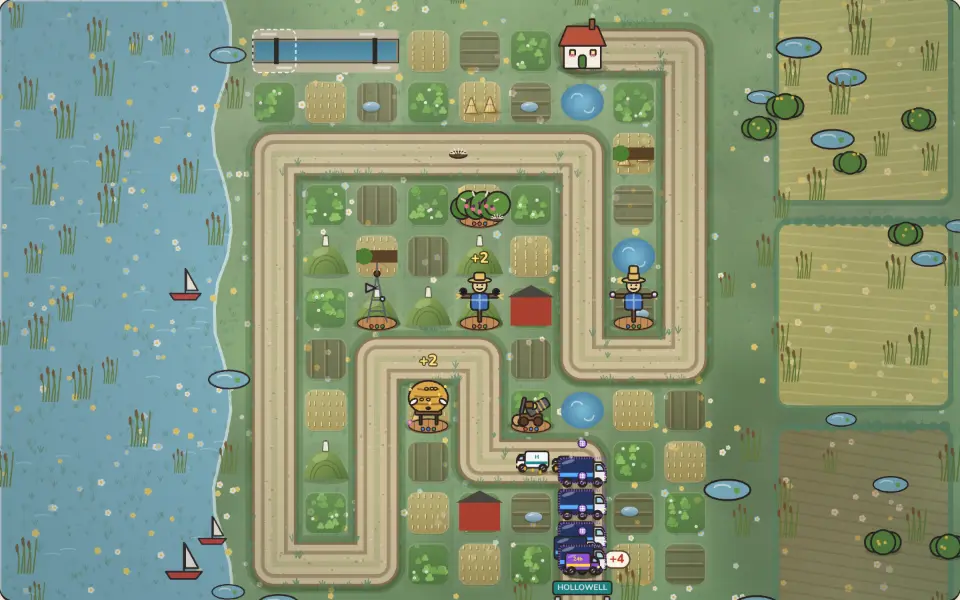
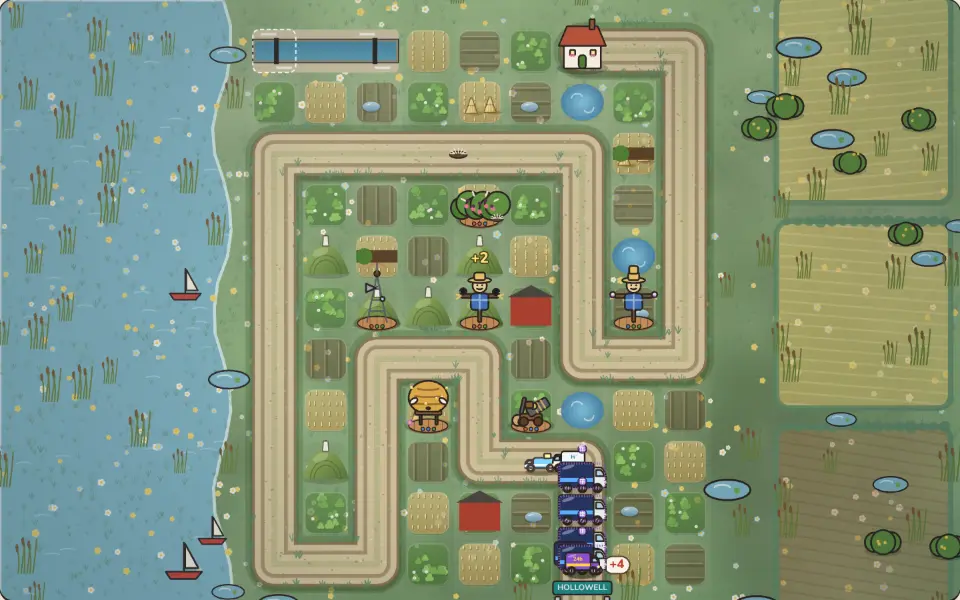
Hedgerow (plan item 157, slice 1): Hollowell's depot by the gate, with its departures board and its rep
In 2D a glossy plastic depot (depot.ts: roller door, the brand stripe, a rep on the balcony) stands in the margin
outside each gate wherever the margin holds it (2 x 2 cells; never on the field). Its departures board carries the
next round's count, and the canvas's 'N coming' pill steps aside where a depot stands. The rep is smug, then
rattled after a clean round or gleeful after one that leaked (data-rep-mood). New e2e-site/hedgerow-depot.spec.ts;
hedgerow-gatequeue accepts the board for the count. The Hedgerow site specs pass at P and D bar hedgerow-swarm
(times out on build before this) and hedgerow-3dframe:111 at P (a 1-in-3 flake, 3D only). Hedgerow key art
re-shot. Shots of levels 21 and 34 at P and D.

Claude-Session: https://claude.ai/code/session_01SimvMN1RHBGCWN7Eo7MzhN

Changed region(s): [[0.5312, 0.72, 0.6562, 0.96], [0.4375, 0.57, 0.4688, 0.69]]

diff --git a/games/hedgerow/src/main.ts b/games/hedgerow/src/main.ts
@@ -197,6 +197,7 @@ import { setupAlmanac } from "./almanac";
 import { towerRole, type TowerRole } from "./roles";
 import { leakDebrief } from "./debrief";
 import { cheer, panic } from "./farmfolk";
+import { depotSvg, entrySide, repMood, repSvg, type RepMood } from "./depot";
 import { KITS } from "./hero";
 import { OUTFITS, isUnlocked as outfitUnlocked, outfitFor, shareOutfit, wear, wornOutfit } from "./wardrobe";
 import { actScene, renderMap } from "./map";
@@ -4057,6 +4058,97 @@ function runSpeed(g: Game): number {
 // Plan item 152: the level's twists you can see on the field. A flood that's up marks the stage
 // `data-twist-active~="flood"` with the count of plots under it (the renderers draw the water); a fog level's
 // sea fret is a drifting layer over the field (`.field-fog`) that thickens as the round runs.
+// Plan item 157: Hollowell's depot at each gate (2D, where the field has a margin beside the gate wide enough for
+// a 2 x 2-cell depot clear of every plot). Its departures board shows the next round's count; the rep's mood follows
+// the last round (smug, then gleeful after a leak or rattled after a clean one).
+let depotLeaksAtStart = 0;
+let depotMood: RepMood = "smug";
+let depotJudged = 0;
+let depotKey = "";
+let depotLevel = -1;
+function syncDepots(g: Game): void {
+  const layer0 = document.getElementById("depots");
+  const show = !!renderer && !is3D(renderer) && g.phase !== "won" && g.phase !== "lost";
+  if (!show) {
+    layer0?.remove();
+    depotKey = "";
+    if (renderer && !is3D(renderer)) (renderer as Renderer).depotLanes.clear();
+    return;
+  }
+  // The mood: each time a round is over (the round counter moves on and the field is between rounds), compare the
+  // leaks with the last time he judged. A new level starts him smug.
+  const L0 = g.level;
+  if (depotLevel !== L0.id) {
+    depotLevel = L0.id;
+    depotMood = "smug";
+    depotJudged = g.wave;
+    depotLeaksAtStart = g.leaks ?? 0;
+  } else if (betweenRounds(g) && g.wave !== depotJudged) {
+    depotMood = repMood(depotLeaksAtStart, g.leaks ?? 0);
+    depotJudged = g.wave;
+    depotLeaksAtStart = g.leaks ?? 0;
+  }
+  const r = renderer as Renderer;
+  const L = g.level;
+  const c00 = r.cellCenter(0, 0);
+  const c11 = r.cellCenter(1, 1);
+  if (!c00 || !c11) return;
+  const cell = c11.x - c00.x;
+  const size = Math.round(cell * 2);
+  const canvas = ui.stage.querySelector("#canvas")!.getBoundingClientRect();
+  const stage = ui.stage.getBoundingClientRect();
+  const fieldL = c00.x - cell / 2, fieldT = c00.y - cell / 2;
+  const fieldR = fieldL + L.cols * cell, fieldB = fieldT + L.rows * cell;
+  const counts = [0, 0];
+  if (betweenRounds(g) && L.waves[g.wave]) for (const q of waveSpawns(g, L.waves[g.wave]!, g.wave + 1)) counts[(q as { lane?: number }).lane ? 1 : 0]!++;
+  const lanes = [L.path, L.path2].map((path, i) => ({ path, i })).filter((l) => !!l.path);
+  const spots: Array<{ x: number; y: number; count: number; lane: number }> = [];
+  for (const { path, i } of lanes) {
+    const start = path![0] as unknown as [number, number];
+    const gate = r.cellCenter(start[0], start[1]);
+    if (!gate) continue;
+    for (const side of entrySide(start, L.cols, L.rows)) {
+      const room = side === "left" ? fieldL - canvas.left : side === "right" ? canvas.right - fieldR : side === "top" ? fieldT - canvas.top : canvas.bottom - fieldB;
+      // Only where the margin outside the field holds the whole depot: it never stands on a plot.
+      if (room < size + 12) continue;
+      const x = side === "left" ? fieldL - 8 - size : side === "right" ? fieldR + 8 : gate.x - size / 2;
+      const y = side === "top" ? fieldT - 8 - size : side === "bottom" ? fieldB + 8 : gate.y - size / 2;
+      const clampY = Math.max(canvas.top + 4, Math.min(canvas.bottom - size - 4, y));
+      const clampX = Math.max(canvas.left + 4, Math.min(canvas.right - size - 4, x));
+      // A clamp that pulls it onto the field (a top margin shorter than the depot) rules the spot out.
+      const meetsField = clampX < fieldR && clampX + size > fieldL && clampY < fieldB && clampY + size > fieldT;
+      if (meetsField) continue;
+      spots.push({ x: clampX - stage.left, y: clampY - stage.top, count: counts[i]!, lane: i });
+      break;
+    }
+  }
+  r.depotLanes = new Set(spots.map((sp) => sp.lane));
+  const key = `${L.id}|${size}|${depotMood}|${spots.map((s) => `${Math.round(s.x)},${Math.round(s.y)},${s.count}`).join(";")}`;
+  if (key === depotKey) return;
+  depotKey = key;
+  let layer = layer0;
+  if (!layer) {
+    layer = document.createElement("div");
+    layer.id = "depots";
+    layer.className = "depots";
+    layer.setAttribute("aria-hidden", "true");
+    ui.stage.querySelector("#fx-layer")?.before(layer);
+  }
+  layer.replaceChildren(
+    ...spots.map((sp) => {
+      const el = document.createElement("div");
+      el.className = "depot";
+      el.dataset.depot = String(sp.lane);
+      el.dataset.repMood = depotMood;
+      el.style.setProperty("--x", `${Math.round(sp.x)}px`);
+      el.style.setProperty("--y", `${Math.round(sp.y)}px`);
+      el.style.setProperty("--size", `${size}px`);
+      el.innerHTML = `${depotSvg()}<span class="depot-board" data-depot-count="${sp.count}">${sp.count ? `<b>${sp.count}</b> next` : "&mdash;"}</span><span class="depot-rep">${repSvg(depotMood)}</span>`;
+      return el;
+    }),
+  );
+}
+
 let twistKey = "";
 let twistWarned = "";
 function syncTwists(g: Game): void {
@@ -4174,6 +4266,7 @@ function frame(now: number): void {
   renderer.draw(g, paused || introHold ? 0 : dt * Math.min(speed, 2));
   syncCathSay(g, now);
   syncTwists(g);
+  syncDepots(g);
   drawGhost(g);
   drawDuel(g);
   if (!finished && !player && (g.phase === "won" || g.phase === "lost")) {

diff --git a/games/hedgerow/src/depot.ts b/games/hedgerow/src/depot.ts
@@ -1,0 +1,63 @@
+// Plan item 157: Hollowell's depot at each gate. A glossy plastic shed with a roller door and the brand stripe, a
+// departures board with the next round's count, and the rep on the balcony: smug by default, gleeful when something
+// got through last round, rattled when the round went clean. Pure picture and placement; main.ts positions it.
+
+export type RepMood = "smug" | "gleeful" | "rattled";
+
+const INK = "#2b2320";
+/** The depot's picture in a 100 x 100 box, its door facing down (towards the lane). */
+export function depotSvg(): string {
+  const ribs = Array.from({ length: 6 }, (_, i) => `<path d="M30 ${62 + i * 5}h40" stroke="#9aa3ad" stroke-width="1.2"/>`).join("");
+  return (
+    `<svg viewBox="0 0 100 100" aria-hidden="true">` +
+    `<ellipse cx="50" cy="96" rx="46" ry="4" fill="rgba(0,0,0,0.22)"/>` +
+    // body: glossy grey-white plastic with a single highlight, no outline (STYLE.md: the enemies are glossy)
+    `<rect x="6" y="30" width="88" height="64" rx="6" fill="#e9edf1"/>` +
+    `<rect x="10" y="33" width="80" height="6" rx="3" fill="#ffffff" opacity="0.8"/>` +
+    // roof and brand stripe
+    `<path d="M2 32 50 10l48 22z" fill="#d7dde3"/>` +
+    `<rect x="6" y="42" width="88" height="10" fill="#ef7a2a"/>` +
+    `<text x="50" y="50" text-anchor="middle" font-size="7.2" font-weight="800" fill="#fff" font-family="sans-serif" letter-spacing="1">HOLLOWELL</text>` +
+    // roller door
+    `<rect x="28" y="58" width="44" height="36" rx="2" fill="#c9d0d7"/>${ribs}` +
+    // departures board on the left wall
+    `<rect x="9" y="56" width="17" height="22" rx="2" fill="#1d2228"/>` +
+    // balcony rail on the right
+    `<path d="M74 58h18" stroke="#9aa3ad" stroke-width="2"/>` +
+    `</svg>`
+  );
+}
+
+/** The rep on the balcony (a small figure in a suit with an orange tie), in a 24 x 30 box. */
+export function repSvg(mood: RepMood): string {
+  const mouth =
+    mood === "gleeful" ? `<path d="M9 12q3 4 6 0" fill="${INK}"/>` : mood === "rattled" ? `<path d="M9 13.5q3-3 6 0" fill="none" stroke="${INK}" stroke-width="1.2"/>` : `<path d="M9 12.5q3 1.6 6-0.8" fill="none" stroke="${INK}" stroke-width="1.2"/>`;
+  const brows = mood === "rattled" ? `<path d="M8 6.5l3 1M16 6.5l-3 1" stroke="${INK}" stroke-width="1"/>` : `<path d="M8 7l3-1M16 7l-3-1" stroke="${INK}" stroke-width="1"/>`;
+  const arm = mood === "gleeful" ? `<path d="M18 19l4-7" stroke="#3a4250" stroke-width="3" stroke-linecap="round"/>` : "";
+  return (
+    `<svg viewBox="0 0 24 30" aria-hidden="true">` +
+    `<path d="M4 30v-9q8-5 16 0v9z" fill="#3a4250"/>${arm}` +
+    `<path d="M11.2 20h1.6l1 6-1.8 2-1.8-2z" fill="#ef7a2a"/>` +
+    `<circle cx="12" cy="10" r="6" fill="#f0c8a4"/>` +
+    `<path d="M6 8q6-7 12 0" fill="#5a4636"/>${brows}` +
+    `<circle cx="9.6" cy="9.6" r="0.9" fill="${INK}"/><circle cx="14.4" cy="9.6" r="0.9" fill="${INK}"/>${mouth}` +
+    `</svg>`
+  );
+}
+
+export type Side = "left" | "right" | "top" | "bottom";
+/** Which field edge a lane enters from, by its first cell. */
+export function entrySide(start: readonly [number, number], cols: number, rows: number): Side[] {
+  const [c, r] = start;
+  const out: Side[] = [];
+  if (c <= 0) out.push("left");
+  if (c >= cols - 1) out.push("right");
+  if (r <= 0) out.push("top");
+  if (r >= rows - 1) out.push("bottom");
+  return out;
+}
+
+/** The rep's mood once a round is over: gleeful if anything got through it, rattled if it went clean. */
+export function repMood(leaksAtStart: number, leaksAtEnd: number): RepMood {
+  return leaksAtEnd > leaksAtStart ? "gleeful" : "rattled";
+}

diff --git a/e2e-site/hedgerow-depot.spec.ts b/e2e-site/hedgerow-depot.spec.ts
@@ -1,0 +1,50 @@
+import { expect, test } from '@playwright/test'
+
+// Plan item 157: Hollowell's depot by the gate (2D). It stands in the margin by its lane's start, 2 x 2 cells or
+// larger and on no plot; its departures board carries the next round's count (no 'N coming' pill there); the rep
+// on its balcony is smug, gleeful after a round that leaked and rattled after a clean one.
+type G = { wave: number; phase: string; leaks?: number; level: { cols: number; rows: number; path: number[][] } }
+type W = { hedgerow?: { game: () => G | null; cellCenter: (c: number, r: number) => { x: number; y: number } | null; gateQueue: () => { plates: unknown[] } | null } }
+
+test('the depot stands by the gate with the next round on its board, and the rep reacts to the round', async ({ page, hasTouch }) => {
+  test.skip(hasTouch, 'level 21 has no margin for a depot on a phone')
+  await page.goto('/hedgerow/?2d&sandbox=1&level=21')
+  await page.waitForFunction(() => !!(window as unknown as W).hedgerow?.game(), null, { timeout: 30_000 })
+  const depot = page.locator('[data-depot]').first()
+  await expect(depot).toBeAttached()
+  await expect(depot).toHaveAttribute('data-rep-mood', 'smug')
+  const m = await page.evaluate(() => {
+    const hg = (window as unknown as W).hedgerow!
+    const g = hg.game()!
+    const a = hg.cellCenter(0, 0)!, b = hg.cellCenter(1, 1)!
+    const cell = b.x - a.x
+    const d = document.querySelector('[data-depot]')!.getBoundingClientRect()
+    const gate = hg.cellCenter(g.level.path[0]![0]!, g.level.path[0]![1]!)!
+    const fL = a.x - cell / 2, fT = a.y - cell / 2, fR = fL + g.level.cols * cell, fB = fT + g.level.rows * cell
+    const gap = Math.max(0, Math.max(d.left - gate.x, gate.x - d.right) - cell / 2, Math.max(d.top - gate.y, gate.y - d.bottom) - cell / 2)
+    return {
+      cells: d.width / cell,
+      gap,
+      onField: d.left < fR && d.right > fL && d.top < fB && d.bottom > fT,
+      count: Number(document.querySelector('[data-depot] [data-depot-count]')!.getAttribute('data-depot-count')),
+      pills: hg.gateQueue()?.plates.length ?? 0,
+    }
+  })
+  expect(m.cells).toBeGreaterThanOrEqual(2)
+  expect(m.gap).toBeLessThanOrEqual(60)
+  expect(m.onField).toBe(false)
+  expect(m.count).toBeGreaterThan(0)
+  expect(m.pills).toBe(0)
+  // A round that ends clean rattles him; one with a leak delights him.
+  // The next round's number with or without a leak on the way (the field stays between rounds).
+  const round = async (leak: boolean) =>
+    page.evaluate((leak) => {
+      const g = (window as unknown as W).hedgerow!.game()!
+      if (leak) g.leaks = (g.leaks ?? 0) + 1
+      g.wave += 1
+    }, leak)
+  await round(false)
+  await expect(depot).toHaveAttribute('data-rep-mood', 'rattled')
+  await round(true)
+  await expect(depot).toHaveAttribute('data-rep-mood', 'gleeful')
+})

diff --git a/games/hedgerow/src/styles.css b/games/hedgerow/src/styles.css
@@ -4662,3 +4662,53 @@ img.act-scene {
 @media (prefers-reduced-motion: reduce) {
   .field-fog span { animation: none; left: 5%; }
 }
+
+/* Plan item 157: Hollowell's depot beside each gate (2D, desktop margin). The departures board is a lit sign over the
+   roller door; the rep leans on the balcony rail. */
+.depots {
+  position: absolute;
+  inset: 0;
+  pointer-events: none;
+}
+.depot {
+  position: absolute;
+  left: var(--x);
+  top: var(--y);
+  width: var(--size);
+  height: var(--size);
+}
+.depot > svg { display: block; width: 100%; height: 100%; }
+.depot-board {
+  position: absolute;
+  left: 26%;
+  top: 53%;
+  width: 48%;
+  padding: 2px 0;
+  border-radius: 3px;
+  background: var(--ink);
+  color: var(--wheat, var(--cream-a45));
+  font-family: var(--font-ui, sans-serif);
+  font-size: max(0.75rem, calc(var(--size) * 0.085));
+  font-weight: 700;
+  line-height: 1.1;
+  text-align: center;
+  text-transform: uppercase;
+  letter-spacing: 0.04em;
+  white-space: nowrap;
+}
+.depot-board b { font-size: 1.15em; }
+.depot-rep {
+  position: absolute;
+  left: 72%;
+  top: 31%;
+  width: 22%;
+  height: 28%;
+}
+.depot-rep svg { display: block; width: 100%; height: 100%; }
+.depot[data-rep-mood="gleeful"] .depot-rep { animation: rep-gloat 600ms ease-in-out 3 alternate; }
+.depot[data-rep-mood="rattled"] .depot-rep { animation: rep-shake 120ms linear 6 alternate; }
+@keyframes rep-gloat { to { translate: 0 -12%; } }
+@keyframes rep-shake { to { translate: 6% 0; } }
+@media (prefers-reduced-motion: reduce) {
+  .depot-rep { animation: none !important; }
+}

diff --git a/games/hedgerow/src/render.ts b/games/hedgerow/src/render.ts
@@ -887,7 +887,9 @@ export class Renderer {
         });
         const tail = enemyPoint(level, { dist: 0, ...(ln.lane ? { lane: ln.lane } : {}) });
         const upright = headingAt(path, 0).dx === 0;
-        items.push({ y: 99, draw: () => shown.plates.push(this.countPlate(ctx, ln.count, X(tail.x), Y(tail.y), s, upright)) });
+        // Plan item 157: where Hollowell's depot stands by this gate its departures board carries the count instead.
+        if (!this.depotLanes.has(ln.lane ?? 0))
+          items.push({ y: 99, draw: () => shown.plates.push(this.countPlate(ctx, ln.count, X(tail.x), Y(tail.y), s, upright)) });
       }
     } else this.queueAge = 0;
     for (const e of game.enemies) {
@@ -1467,6 +1469,8 @@ export class Renderer {
   private shardBursts = 0;
   /** Plan item 72: the queue drawn last frame (CSS px from the canvas corner), for the e2e tests; null when nothing waits at the gate. */
   shownQueue: { leads: Rect[]; plates: Rect[] } | null = null;
+  /** Plan item 157: the lanes (0, 1) whose gate has a depot on screen, which shows the count. */
+  depotLanes = new Set<number>();
   private queueAge = 0;
   private queueKey = "";
   private queueMemo: GateQueue | null = null;

diff --git a/e2e-site/hedgerow-gatequeue.spec.ts b/e2e-site/hedgerow-gatequeue.spec.ts
@@ -25,7 +25,9 @@ for (const level of [1, 12, 40]) {
     await expect.poll(async () => (await queue(page))?.leads.length ?? 0).toBeGreaterThan(0)
     const q = (await queue(page))!
     const canvas = (await page.locator('canvas').first().boundingBox())!
-    expect(q.plates.length).toBeGreaterThan(0)
+    // Plan item 157: where Hollowell's depot stands by the gate its departures board carries the count instead.
+    const boards = await page.locator('[data-depot] [data-depot-count]').count()
+    expect(q.plates.length + boards).toBeGreaterThan(0)
     for (const b of [...q.leads, ...q.plates]) {
       expect(b.x, JSON.stringify(b)).toBeGreaterThanOrEqual(-1)
       expect(b.y, JSON.stringify(b)).toBeGreaterThanOrEqual(-1)

diff --git a/PROGRESS.md b/PROGRESS.md
@@ -5,7 +5,7 @@ Short by design (SPEC 16: under 150 lines). v1's full history (M0 to M7, every s
 ## Now
 - Lane A (10:51): items 154, 155 and 159 **done** (Cathnivore desktop hand of whole cards and the producer's seat; the producers seated at the table; NIGHT SHIFT's front menu as a sign). Items 139 and 146 still claimed (open points in each: act 4's arches wait on lane B's item 138, Hedgerow 3D Cath's face, the P field's fifth packet). Open unclaimed: 150 (handed back, needs a map re-layout), 153, 156, 157 (four left: plan when fewer than 3, CLAUDE.md step 4). The **2026-11-05 19:51 session releases** if CI is green. `main` untouched at 9b4bfcfa. Open follow-up: a 375x667 Cathnivore phone layout (item 131's cut).
 - Critique bugs from the 09:35 shots (`e2e/screenshots/plan1103d/`): NIGHT SHIFT wordmark reportedly drops both 'H's at L and D (unconfirmed; the 14:55 D shot shows it whole). Runnel P's spring house and garden: closed 2026-11-04 (item 106).
-- Lane B: item 158 **done** (Runnel: the desktop rail is Bea's almanac page: masthead, the day's sky, Bea's note, 14 px print; on a phone the stats sheet opens on it). Items 126, 138, 91 still claimed (open points in the plan). `hedgerow-swarm.spec.ts` at P times out on build (also before lane B's changes) (2026-11-05 10:21 session).
+- Lane B: item 157 claimed, slice 1 (Hedgerow 2D: Hollowell's depot by the gate, its departures board, the rep's moods); open: 3D, the door at Go, phone fields with no margin. Items 126, 138, 91 still claimed. `hedgerow-swarm.spec.ts` at P times out on build; `hedgerow-3dframe.spec.ts:111` at P flakes (bubble overlap 0.137 vs 0.12, 1 in 3) (2026-11-05 11:21 session).
 - Critique bugs from the 2026-11-05 09:30 shots (`e2e/screenshots/plan1105c/`, lane B): `cath-title-D` pennant hint ~13 px white on brown (1030-1280 x 800-818) and footer ~12 px (310-1130 x 872-886); `cath-title-P` small keys' labels ~12 px (85-305 x 692-735); `cath-setup-D` seed 'random' low contrast (655-840 x 795-835); `hedge-l34-2d-D` '485 coming' over a farmer (300-395 x 128-150); `hedge-menu-P` 'Brand Ambassador' on the road (10-95 x 450-480); `ns-title-D` neon sign clipped at the top (790-1150 x 0-45); `ns-play-P` FIXER tab cut (340-390 x 68-82); `games-P` hero ghosted (likely shot mid-entrance: check before fixing).
 - Critique bug seen 2026-11-04 13:30 (lane A, 1280x800): a Not-yet name cut on a 1280 desktop. Fixed 2026-11-04 14:15 (item 104 slice 1).
 - Critique bugs still open (2026-11-03 07:10 shots, `e2e/screenshots/plan1103c/`): NIGHT SHIFT P class pick blank under swiftshader (unconfirmed). Closed 2026-11-04 14:55 (lane A, checked in `plan1104e`): Cath no longer covers title-board hexes at P; Hedgerow D notebook is full; Hedgerow P map header is the act banner over the map.
@@ -37,6 +37,7 @@ None (Vercel deployed 9aee11e on 2026-10-12). (The App Store launch is postponed
 
 ## Session log (newest first, last 15)
 - **2026-11-05 10:51 lane A session:** CI's red on b6b01725 was a cancelled run. Item 154 done (`03f3bea7` hand at measured spots, a fifth's overlap at most, two-row landscape spill, the pile at the rail's foot; `a8e997c2` the seat). Item 155 done (`8647182f`, `8380f873`; `e2e/table-producers.spec.ts`). Item 159 done (`414cea8d`; cathode-front all 35 pass at P and D; `scripts/cathode-menu-shots.mjs`). Passing: table-hand, table-producers, play-lift, disabled-actions, action-hand, suggest-move, desktop-no-scroll, tutorial(-ch2), tooltip, table-cath, ai-teammate, hotseat, producer-faces, turn-show, accessibility, moments, phone-map-hero, critique104, market-event-dressing (chromium; phone-webkit has no browser here); producer-mood unit; CSS lint, cathode-type. Shots `e2e/screenshots/h154`, `menu159`.
+- **2026-11-05 11:21 lane B session:** CI's red on a8e997c was a cancelled run (b531fde green). Item 159 was taken by lane A first; claimed 157, slice 1 (`depot.ts`, `hedgerow-depot.spec.ts`; key art re-shot).
 - **2026-11-05 10:21 lane B session:** CI green on 4477cc0. Item 158 slices 3-5 and done (`#al-sky`, the stats sheet's page, `runnel-almanac.spec.ts`).
 - **2026-11-05 09:51 lane A session:** CI's red on 6cc2ea6 was a cancelled run (515c9b1a green). Item 147 done (slices 2-3: coat profile, `cath-hand-l`, hair sway, elbow radii, extruded lapels on `rAtCoat`, buttons on the chest; cathode-front asserts the lod, both hands, 300 px+ at D). Item 146: Hedgerow map pip track, Cathnivore empty ritual rope, NIGHT SHIFT P tabs. Passing: cathode-front, -perf, -classpick (41, twice), hedgerow-map/-critique/-intro (58), daily-ritual, title-fit, title-bubble; CSS lint. Shots `body147/b1..b4`, `p146`. Full `npm run check` green on b6b01725 (2389 tests, fuzz, build).
 - **2026-11-05 09:22 lane B session:** CI green on 293ff41. Item 152 done (slice 2: warnings, fogged rings; 3D shots). Planning: shots `plan1105c`, critique, items 154-159. Item 158 slices 1-2 (`#almanac-head`).
@@ -50,4 +51,3 @@ None (Vercel deployed 9aee11e on 2026-10-12). (The App Store launch is postponed
 - **2026-11-05 05:22 lane B session:** CI's red on 0801971 was keyart-fresh after the Hedgerow farmfolk; lane A re-shot it (da56f8a), keyart-fresh passes. Item 126: Campaign progress bar, phone region names. Item 138 claimed: Runnel stream taper (75 Runnel site tests pass).
 - **2026-11-05 04:51 lane A session:** CI's reds were cancelled superseded runs. Item 143 done in 2 slices (`farmfolk.ts`, `folkart.ts`, `render3d/folk.ts`; `tests/hedgerow-farmfolk.test.ts`, `e2e-site/hedgerow-folk.spec.ts`; shots `e2e/screenshots/folk143`, script `scripts/hedgerow-folk-shots.mjs`). Item 139: the 3D gate plate docks under its sign (shots `plate139c`). Passing: hedgerow-folk, -3dframe, -gatequeue, -debrief, -cath2d, -field, -critique, farmfolk unit. Full `npm run check`: 2382 passed, one fail (keyart-fresh: the Hedgerow poster, re-shot with `npm run keyart`, now passes).
 - **2026-11-05 04:21 lane B session:** CI green on 8a31e7a. Item 141 done (phone strip scrolls to the suggested card, snapped; action-hand's at-rest peek test runs with suggestions off). Item 126: NIGHT SHIFT class numbers, HOLD ENTER, phone title case line; a wider D bubble tried and reverted (still six lines).
-- **2026-11-05 03:51 lane A session:** CI's reds were cancelled superseded runs. Item 140 done (slices 3-4; a pixel acceptance cut, see DECISIONS). The phone class pick's audition subtitle no longer sits over the class's words. Passing: cathode-front face test (with new pixel checks), cathode-classpick (8), cathode-type, CSS lint. Shots `e2e/screenshots/face140`, `classpick/k140*`. No full `npm run check` this session (lane A ran one at 02:51 on ceee062d).

diff --git a/docs/archive/PROGRESS-v1.md b/docs/archive/PROGRESS-v1.md
@@ -3851,3 +3851,5 @@ want reminded of mid-game without leaving the Farm sheet. Full detail in DECISIO
 - **2026-11-05 00:51 lane A session:** CI's red on 43ce53e3 was a cancelled run. Planning: shots `plan1105a`, a subagent critique, items 139-145. Item 136 slice 1 (a 3 s audition per class: a cut, the held pose, the rig flare, her line as a subtitle; kits compiled in the warm-up). Fixed cathode-front's phone class-pick test, which still expected item 40's scroll cue after item 125. Passing: cathode-classpick (all), cathode-front (all), cathode-perf, CSS lint, cathode-type. Shots `e2e/screenshots/a136`.
 - **2026-11-05 02:21 lane B session:** Item 144 done (phone ticket chip, short names and rule, hidden on short phones; `market-event-dressing.spec.ts`). Item 141 slice 1 (`e2e/suggest-move.spec.ts`; Settings `suggestions`). Slice 2 saved as a patch, not shipped (see Now).
 - **2026-11-05 02:51 lane A session:** CI's reds were cancelled superseded runs. Item 139: Cathnivore's wordless price tag and SOLD sign, the phone receipt as a slip on the table front, the picked map card in full ink, Campaign Cath fading at the waist, the threat pill off the plate; Hedgerow's Saltmarsh cloud lit and uncropped, the phone glimpse below the fold. Item 140 slices 1-2. Passing: daily-ritual, title-bubble, title-fit, campaign-cath, setup specs, threat-badge, board-scales, market-event-dressing, piece-layout, hedgerow-map/critique/intro (58), keyart-fresh, cathode-front face, CSS lint. Shots in the session scratchpad (`b139`). Full `npm run check` green on ceee062d (2376 tests, fuzz, build). Item 140's determined mouth reads a little pouty at the pick's half resolution: check it with the hair slice.
+- **2026-11-05 03:22 lane B session:** CI's red on f5b9f64 was a cancelled run. Item 141 slice 2 (the preview flickered because the ledger tag widened the chip and moved the list under the pointer; now a CSS pseudo-element). Full e2e: 340 passed, 7 failed, all 7 failing on build without lane B's changes too; fixed 5 (hex `role=group`, exact 'Close'), 2 left under Now.
+- **2026-11-05 03:51 lane A session:** CI's reds were cancelled superseded runs. Item 140 done (slices 3-4; a pixel acceptance cut, see DECISIONS). The phone class pick's audition subtitle no longer sits over the class's words. Passing: cathode-front face test (with new pixel checks), cathode-classpick (8), cathode-type, CSS lint. Shots `e2e/screenshots/face140`, `classpick/k140*`. No full `npm run check` this session (lane A ran one at 02:51 on ceee062d).

diff --git a/docs/plan/two-week-plan.md b/docs/plan/two-week-plan.md
@@ -1879,7 +1879,7 @@ The items come from fresh-eyes audits on 2026-11-01 and 2026-11-02 (items 25-32:
 - **Accept:** a tap shows `[data-build-ring]` with one `.ring-packet` per unlocked tower, each 44x44 px or larger and inside 390x844, none over the tapped plot; unaffordable ones `data-affordable="false"`; the previewed ring's radius equals the tower's range (`hedgerow.ring()`); level tests unchanged; shots P and D, 2D and 3D.
 - **Size:** 2
 
-## 157. [ ] Hedgerow: Hollowell's depot at the gate *(lane B, in progress)*
+## 157. [ ] Hedgerow: Hollowell's depot at the gate *(lane B, in progress)* *(slice 1, 2026-11-05 11:21 lane B, 2D: a glossy depot (`depot.ts`: roller door, brand stripe, the rep on the balcony) stands in the margin outside each gate where the margin holds 2 x 2 cells (never on the field; level 21 and 34 at D, 34 at P); its departures board (`[data-depot-count]`) carries the next round's count, and the gate's 'N coming' pill steps aside where it stands; `data-rep-mood` smug, then rattled after a clean round or gleeful after one that leaked; `e2e-site/hedgerow-depot.spec.ts`; gatequeue spec accepts the board; Hedgerow key art re-shot; shots `dep-*`. Open: 3D, vehicles rolling out of the door at Go, a depot on fields with no margin (P level 21))*
 - **Why:** `hedge-l21-2d-D` (283-362 x 478-495): the corporation is a 12 px sign; `hedge-l21-3d-P` (133-330 x 360-385): the 'N coming' pill floats mid-field away from its gate.
 - **Build:**
   - A glossy plastic depot at each lane's entrance, 2D and 3D: roller door, brand stripe, vehicles rolling out of the door.

diff --git a/DECISIONS.md b/DECISIONS.md
@@ -255,3 +255,4 @@ Newest at the bottom. At most 5 lines per entry, under 250 lines in all (SPEC 16
 - 2026-11-05 11:35 (lane A): item 154's hand places cards at measured spots (`--x`, `--y`), not a flex row: a fifth's overlap at most, and a turn that can't fit one row becomes two rows of 156x84 landscape cards (whole name and cost) rather than overlapping rows that hid the back row's names. The 'Not yet' pile moved into the rail (the centre column scrolls, so it clipped there). 'Half-length' is ProducerArt's bust at 180 px.
 - 2026-11-05 11:35 (lane A): item 155's producers sit where a free-spot search finds room in the map frame furthest from Cath (stepping down to 60% before hiding), not "by their stalls": beside a hex there is never 160 px free. A staged e2eMoment Squeeze or liberation moves their faces as a real one does.
 - 2026-11-05 11:35 (lane A): item 159's "Cath's projected box" at P is `figureBox(true)`, her body without the umbrella: the canopy spans 82-372 of 390, so no menu could clear it. The lit row keeps full-ink letters and buzzes only its glow (`?shot` freezes CSS animations at their first frame, which had left the letters at 35%).
+- 2026-11-05 lane B: Hollowell's depot (item 157) is a DOM overlay placed only in the margin outside the field (never on a plot); where it stands its board carries the count and the canvas skips the 'N coming' pill (Renderer.depotLanes). The rep judges each finished round by leaks since the last judgment, keyed on the round counter, not phase edges (an empty round ends inside one frame).
